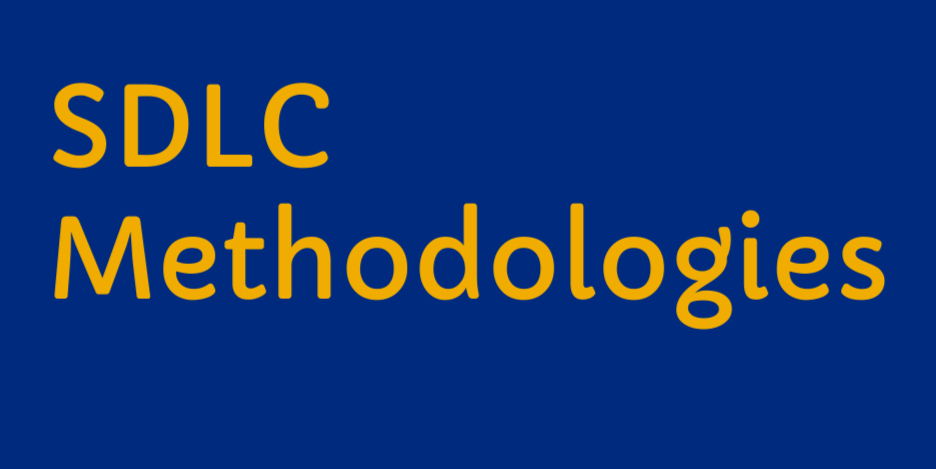
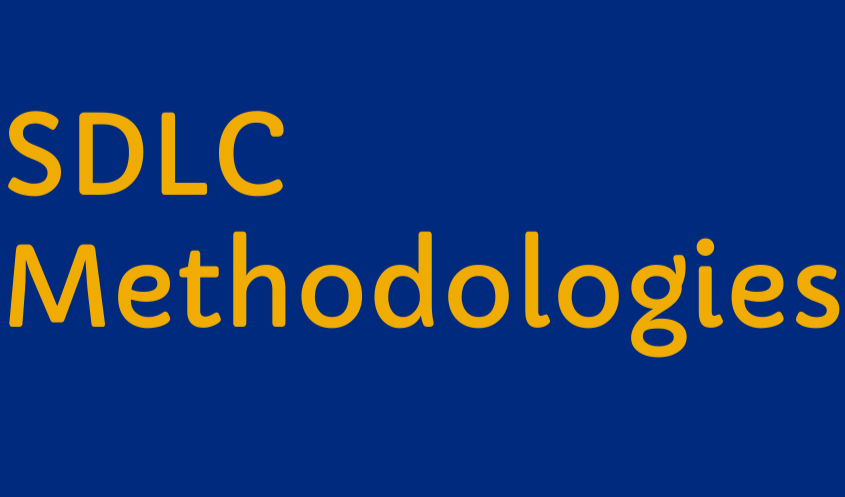
Update lecture dates

Changed region(s): [[0.0, 0.1791, 1.0, 0.7164], [0.4923, 0.4179, 0.5231, 0.4776]]

diff --git a/_lectures/03_Requirement_Modeling.md b/_lectures/03_Requirement_Modeling.md
@@ -1,6 +1,6 @@
 ---
 type: lecture
-date: 2025-11-04T08:00:00+3:30
+date: 2025-11-24T08:00:00+3:30
 title: "Requirement Modeling"
 tldr: "Requirement Modeling and Software Requirements Specification (SRS)"
 thumbnail: /static_files/thumbnail/lec2.png

diff --git a/_lectures/05_Methodologies.md b/_lectures/05_Methodologies.md
@@ -1,6 +1,6 @@
 ---
 type: lecture
-date: 2025-11-09T08:30:00+3:30
+date: 2025-11-28T08:00:00+3:30
 title: "Methodologies"
 tldr: "Software Methodology and Framework"
 thumbnail: /static_files/thumbnail/lec4.png

diff --git a/_lectures/04_SDLC.md b/_lectures/04_SDLC.md
@@ -1,6 +1,6 @@
 ---
 type: lecture
-date: 2025-11-09T08:00:00+3:30
+date: 2025-11-26T08:00:00+3:30
 title: "SDLC"
 tldr: "Software Development Life Cycle"
 thumbnail: /static_files/thumbnail/lec3.png
